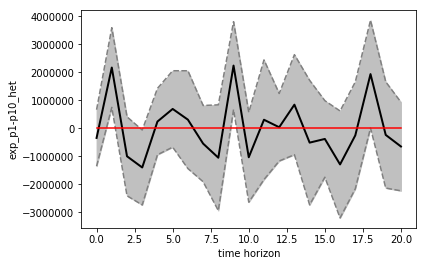
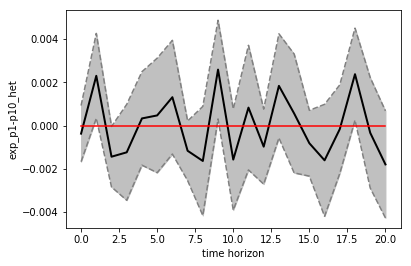
Adjusted code in 6

diff --git a/InfInequality/6_agg_real_consumption_with_agg_CPI-U.py b/InfInequality/6_agg_real_consumption_with_agg_CPI-U.py
@@ -97,6 +97,11 @@ ineq_data.to_pickle("../out_data_mngment/data_for_final_analysis_agg_cpi/data_in
 
 real_exp_90=pd.DataFrame(columns=['year','month','exp_p90-p100_het'])
 real_exp_10=pd.DataFrame(columns=['year','month','exp_p1-p10_het'])
+real_exp_90=pd.DataFrame(columns=['year','month','exp_p90-p100_het'])
+real_exp_10=pd.DataFrame(columns=['year','month','exp_p1-p10_het'])
+log_real_exp_90=pd.DataFrame(columns=['year','month','exp_p90-p100_het'])
+log_real_exp_10=pd.DataFrame(columns=['year','month','exp_p1-p10_het'])
+
 
 
 for n,i in enumerate(listdir("../out_data_mngment/data_for_final_analysis_agg_cpi/")[:-1]):
@@ -106,13 +111,26 @@ for n,i in enumerate(listdir("../out_data_mngment/data_for_final_analysis_agg_cp
        i.split('__')[1].split('_')[0],
        np.mean((df["real_exp"][df["Percentile"]<=10]))
        ]
+       log_real_exp_10.loc[n]=[
+       i.split('__')[1].split('_')[1],
+       i.split('__')[1].split('_')[0],
+       np.mean(np.log(df["real_exp"][df["Percentile"]<=10]))
+       ]
        real_exp_90.loc[n]=[
        i.split('__')[1].split('_')[1],
        i.split('__')[1].split('_')[0],
        np.mean((df["real_exp"][df["Percentile"]>=91]))
        ]
+       log_real_exp_90.loc[n]=[
+       i.split('__')[1].split('_')[1],
+       i.split('__')[1].split('_')[0],
+       np.mean(np.log(df["real_exp"][df["Percentile"]>=91]))
+       ]
+
 
        
 real_exp_10.to_pickle("../out_data_mngment/data_for_final_analysis_agg_cpi/exp_series_p10")
 real_exp_90.to_pickle("../out_data_mngment/data_for_final_analysis_agg_cpi/exp_series_p90")
+log_real_exp_10.to_pickle("../out_data_mngment/data_for_final_analysis_agg_cpi/log_exp_series_p10")
+log_real_exp_90.to_pickle("../out_data_mngment/data_for_final_analysis_agg_cpi/log_exp_series_p90")
 

diff --git a/InfInequality/6_agg_real_consumption.py b/InfInequality/6_agg_real_consumption.py
@@ -123,6 +123,11 @@ ineq_data.to_pickle("../out_data_mngment/data_for_final_analysis/data_inequality
 real_exp_90=pd.DataFrame(columns=['year','month','exp_p90-p100_het'])
 real_exp_10=pd.DataFrame(columns=['year','month','exp_p1-p10_het'])
 
+log_real_exp_90=pd.DataFrame(columns=['year','month','exp_p90-p100_het'])
+log_real_exp_10=pd.DataFrame(columns=['year','month','exp_p1-p10_het'])
+
+
+
 
 for n,i in enumerate(listdir("../out_data_mngment/data_for_final_analysis/")[:-1]):
        df= pd.read_pickle("../out_data_mngment/data_for_final_analysis/"+i)
@@ -131,13 +136,25 @@ for n,i in enumerate(listdir("../out_data_mngment/data_for_final_analysis/")[:-1
        i.split('__')[1].split('_')[0],
        np.mean((df["real_exp"][df["Percentile"]<=10]))
        ]
+       log_real_exp_10.loc[n]=[
+       i.split('__')[1].split('_')[1],
+       i.split('__')[1].split('_')[0],
+       np.mean(np.log(df["real_exp"][df["Percentile"]<=10]))
+       ]
        real_exp_90.loc[n]=[
        i.split('__')[1].split('_')[1],
        i.split('__')[1].split('_')[0],
        np.mean((df["real_exp"][df["Percentile"]>=91]))
        ]
+       log_real_exp_90.loc[n]=[
+       i.split('__')[1].split('_')[1],
+       i.split('__')[1].split('_')[0],
+       np.mean(np.log(df["real_exp"][df["Percentile"]>=91]))
+       ]
 
        
 real_exp_10.to_pickle("../out_data_mngment/data_for_final_analysis/exp_series_p10")
 real_exp_90.to_pickle("../out_data_mngment/data_for_final_analysis/exp_series_p90")
+log_real_exp_10.to_pickle("../out_data_mngment/data_for_final_analysis/log_exp_series_p10")
+log_real_exp_90.to_pickle("../out_data_mngment/data_for_final_analysis/log_exp_series_p90")
 

diff --git a/analysis/7_LP_estimation_agg_CPI.py b/analysis/7_LP_estimation_agg_CPI.py
@@ -44,14 +44,14 @@ plt.savefig("../out_figures/CPIU_agg_app/real_ineq_p90-p10", bbox_inches="tight"
 plt.clf()
 
 
-exp_10 = pd.read_pickle("../out_data_mngment/data_for_final_analysis_agg_cpi/exp_series_p10")
+exp_10 = pd.read_pickle("../out_data_mngment/data_for_final_analysis_agg_cpi/log_exp_series_p10")
 exp_10 = exp_10.sort_values(by=["year", "month"])
 exp_10 = exp_10["exp_p1-p10_het"]
 exp_10.index = range(len(exp_10))
 exp_10 = exp_10[:158]
 
 
-exp_90 = pd.read_pickle("../out_data_mngment/data_for_final_analysis_agg_cpi/exp_series_p90")
+exp_90 = pd.read_pickle("../out_data_mngment/data_for_final_analysis_agg_cpi/log_exp_series_p90")
 exp_90 = exp_90.sort_values(by=["year", "month"])
 exp_90 = exp_90["exp_p90-p100_het"]
 exp_90.index = range(len(exp_90))

diff --git a/analysis/7_LP_estimation.py b/analysis/7_LP_estimation.py
@@ -44,14 +44,14 @@ plt.savefig("../out_figures/new_agg_app/real_ineq_p90-p10", bbox_inches="tight")
 plt.clf()
 
 
-exp_10 = pd.read_pickle("../out_data_mngment/data_for_final_analysis/exp_series_p10")
+exp_10 = pd.read_pickle("../out_data_mngment/data_for_final_analysis/log_exp_series_p10")
 exp_10 = exp_10.sort_values(by=["year", "month"])
 exp_10 = exp_10["exp_p1-p10_het"]
 exp_10.index = range(len(exp_10))
 exp_10 = exp_10[:158]
 
 
-exp_90 = pd.read_pickle("../out_data_mngment/data_for_final_analysis/exp_series_p90")
+exp_90 = pd.read_pickle("../out_data_mngment/data_for_final_analysis/log_exp_series_p90")
 exp_90 = exp_90.sort_values(by=["year", "month"])
 exp_90 = exp_90["exp_p90-p100_het"]
 exp_90.index = range(len(exp_90))
